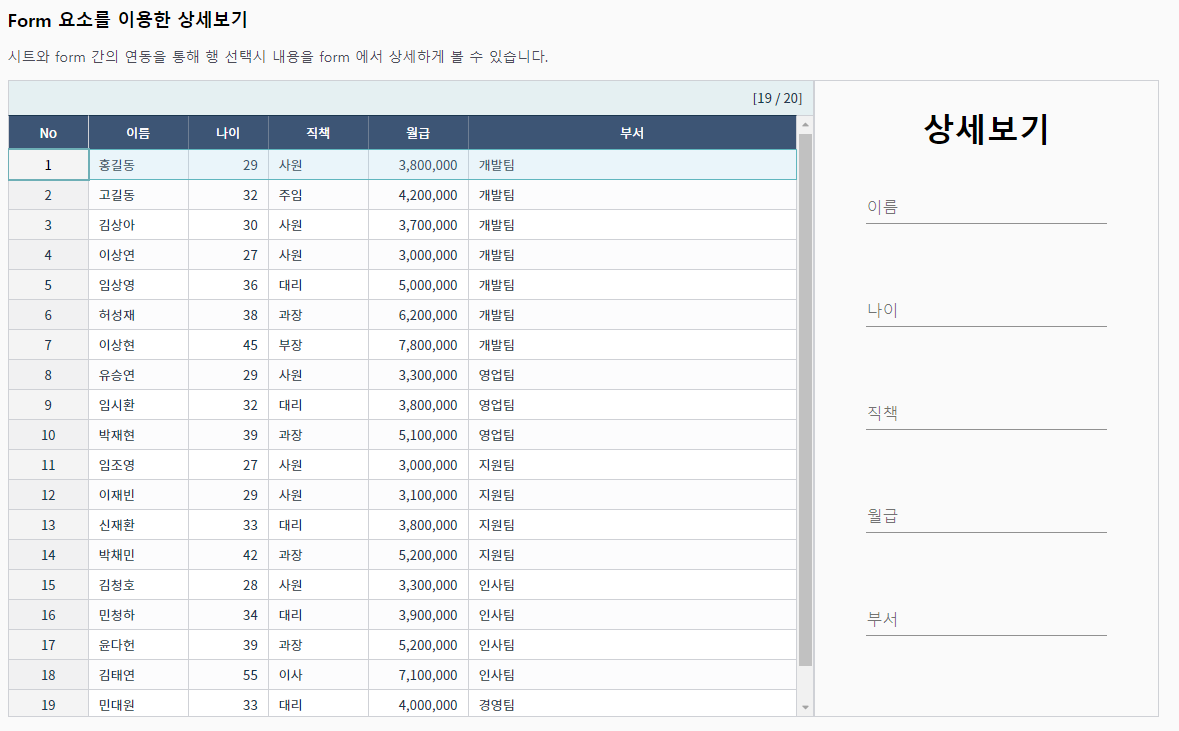
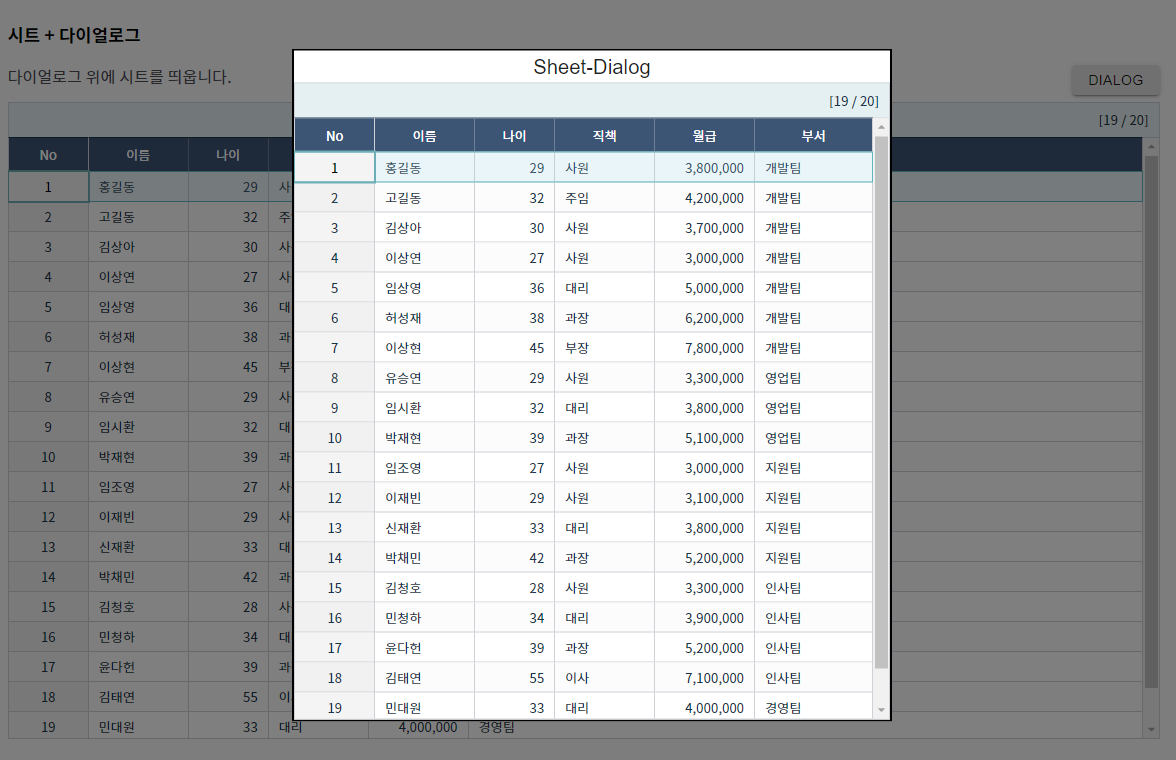
add sheet-dialog

diff --git a/samples/src/components/Content.js b/samples/src/components/Content.js
@@ -10,14 +10,15 @@ import TabList from '@material-ui/lab/TabList';
 import TabPanel from '@material-ui/lab/TabPanel';
 import Formcmpo from 'components/FormComponent';
 import Button from '@material-ui/core/Button';
+import DialogSheet from 'components/DialogSheet';
+import Select from 'react-select';
 
 // 각 샘플 컴포넌트에서 title, subTitle, func 받아오는 것은 sheet 컴포넌트 쪽 탭을 만들어서 사용함.
-const Content = ({ title, subTitle, func, sheet }) => {
+const Content = ({ title, subTitle, func, sheet, dialog }) => {
   const [value, setValue] = useState('1');
   const textElem = useRef();
-  const useMemoTitle = useMemo(() => title, [title]); 
-  const useMemosubTitle = useMemo(() => subTitle, [subTitle]); 
-
+  const useMemoTitle = useMemo(() => title, [title]);
+  const useMemosubTitle = useMemo(() => subTitle, [subTitle]);
   const handleChange = (event, newValue) => {
     setValue(newValue);
   };
@@ -43,7 +44,11 @@ const Content = ({ title, subTitle, func, sheet }) => {
       color: '#000'
     },
     subTitle: {
-      color: '#4c4c57'
+      color: '#4c4c57',
+      fontSize: '1rem'
+    },
+    subDiv: {
+      paddingBottom: '15px'
     },
     divRow: {
       display: 'flex'
@@ -55,6 +60,12 @@ const Content = ({ title, subTitle, func, sheet }) => {
       backgroundColor: '#4c4c57',
       color: '#fff'
     },
+    divMerge: {
+      display: 'flex'
+    },
+    mergeSelect: {
+      flex: 1
+    }
   }));
 
   const listItems = sheet && sheet.map((grid) => {
@@ -62,6 +73,25 @@ const Content = ({ title, subTitle, func, sheet }) => {
   });
 
   const classes = useStyles();
+
+  // const mergeResult = func.map((obj, index) => {
+  //   const option = useMemo(() =>
+  //     [
+  //       { value: '0', label: obj.name + ': 0' },
+  //       { value: '1', label: obj.name + ': 1' },
+  //       { value: '2', label: obj.name + ': 2' },
+  //       { value: '3', label: obj.name + ': 3' },
+  //       { value: '4', label: obj.name + ': 4' },
+  //       { value: '5', label: obj.name + ': 5' },
+  //       { value: '6', label: obj.name + ': 6' }
+  //     ], []
+  //   );
+  //   return (
+  //     <>
+  //       <Select key={ obj.id } options={ option } defaultValue={ option[0] } className={ classes.mergeSelect }/>
+  //     </>
+  //   )
+  // });
 
   return (
     <>
@@ -77,12 +107,17 @@ const Content = ({ title, subTitle, func, sheet }) => {
               </Box>
               <TabPanel value='1'>
                 <div>
-                  <span className={ classes.title }>
+                  <p className={ classes.title }>
                     { useMemoTitle }
-                  </span>
-                  <p className={ classes.subTitle }>
-                    { useMemosubTitle }
                   </p>
+                  <div className={ classes.subDiv }>
+                    <span className={ classes.subTitle }>
+                      { useMemosubTitle }
+                    </span>
+                    {
+                      (dialog && <DialogSheet dialog={ dialog } />)
+                    }
+                  </div>
                 </div>
                 <div className={ classes.divRow }>
                   {

diff --git a/samples/src/components/DialogSheet.js b/samples/src/components/DialogSheet.js
@@ -1,0 +1,58 @@
+import React, { useRef, useState } from 'react';
+import { makeStyles } from '@material-ui/core/styles';
+import Box from '@material-ui/core/Box';
+import Modal from '@material-ui/core/Modal';
+import Button from '@material-ui/core/Button';
+import Typography from '@material-ui/core/Typography';
+import IBSheet8 from 'components/SheetCreate';
+
+const DialogSheet = ({ dialog }) => {
+  const [open, setOpen] = useState(false);
+  const handleOpen = () => setOpen(true);
+  const handleClose = () => setOpen(false);
+  debugger;
+
+  const useStyles = makeStyles((theme) => ({
+    btnStyle: {
+      float: 'right',
+      height: '30px'
+    },
+    modalTitle: {
+      textAlign: 'center'
+    },
+    mcontent: {
+      position: 'absolute',
+      top: '50%',
+      left: '50%',
+      transform: 'translate(-50%, -50%)',
+      width: '600px',
+      backgroundColor: '#fff',
+      border: '2px solid #000',
+    },
+  }));
+
+  const classes = useStyles();
+
+  return (
+    <>
+      <Button variant='contained' onClick={ handleOpen } className={ classes.btnStyle }>Dialog</Button>
+      <Modal
+      open={ open }
+      onClose={ handleClose }
+      aria-labelledby='modal-modal-title'
+      aria-describedby='modal-modal-description'
+      >
+        <Box className={ classes.mcontent }>
+          <Typography id='modal-modal-title' variant='h6' component='h2' className={ classes.modalTitle }>
+            Sheet-Dialog
+          </Typography>
+          <div>
+            <IBSheet8 id={ dialog.id } el={ dialog.el } width={ dialog.width } height={ dialog.height } options={ dialog.options } />
+          </div>
+        </Box>
+      </Modal>
+    </>
+  );
+}
+
+export default DialogSheet;

diff --git a/samples/src/samples/Merge.js b/samples/src/samples/Merge.js
@@ -70,22 +70,18 @@ const Merge = () => {
   };
 
   // func 기능 구현
-  const mergeFunc = useCallback(() => {
-    console.log('mergeFunc');
-  }, []);
-
-  const btnFunc = useCallback(() => {
-    console.log('btnFunc');
-  }, []);
-
   const funcArr = [
     {
-      text: '머지1',
-      func: mergeFunc
+      id: 'dataMerge',
+      name: '데이터 머지',
     },
     {
-      text: '머지2',
-      func: btnFunc
+      id: 'headerMerge',
+      name: '헤더 머지',
+    },
+    {
+      id: 'prevColumnMerge',
+      name: '앞 컬럼 기준',
     }
   ];
 

diff --git a/samples/src/samples/Dialog.js b/samples/src/samples/Dialog.js
@@ -70,9 +70,17 @@ const Dialog = () => {
     options: options
   };
 
+  const dialog = {
+    id: 'sheetDialog',
+    el: 'sheetDiaDiv',
+    height: '100%',
+    width: '100%',
+    options: options
+  };
+
   return (
     <>
-      <Content title={ title } subTitle={ subTitle } sheet={ [sheet] }/>
+      <Content title={ title } subTitle={ subTitle } sheet={ [sheet] } dialog={ dialog }/>
     </>
   );
 }
